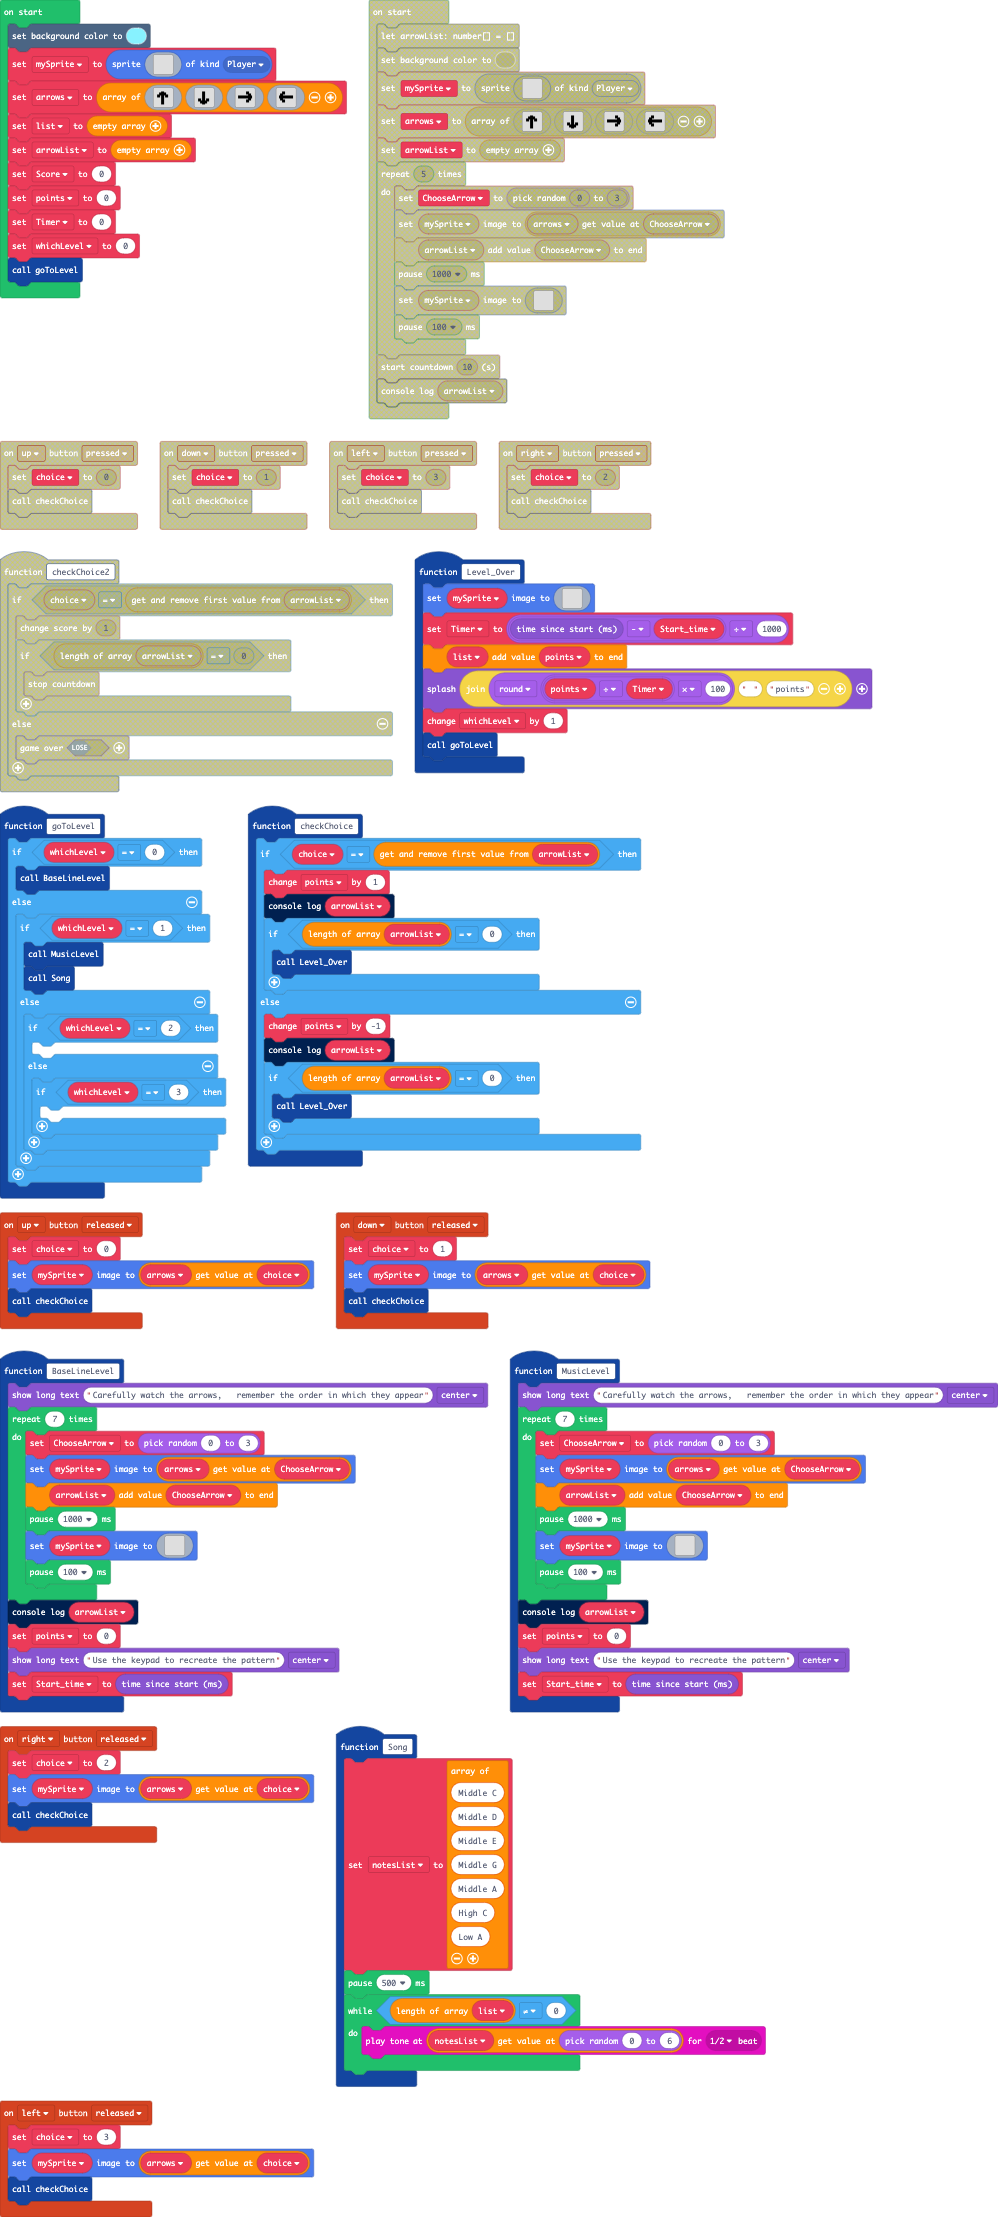
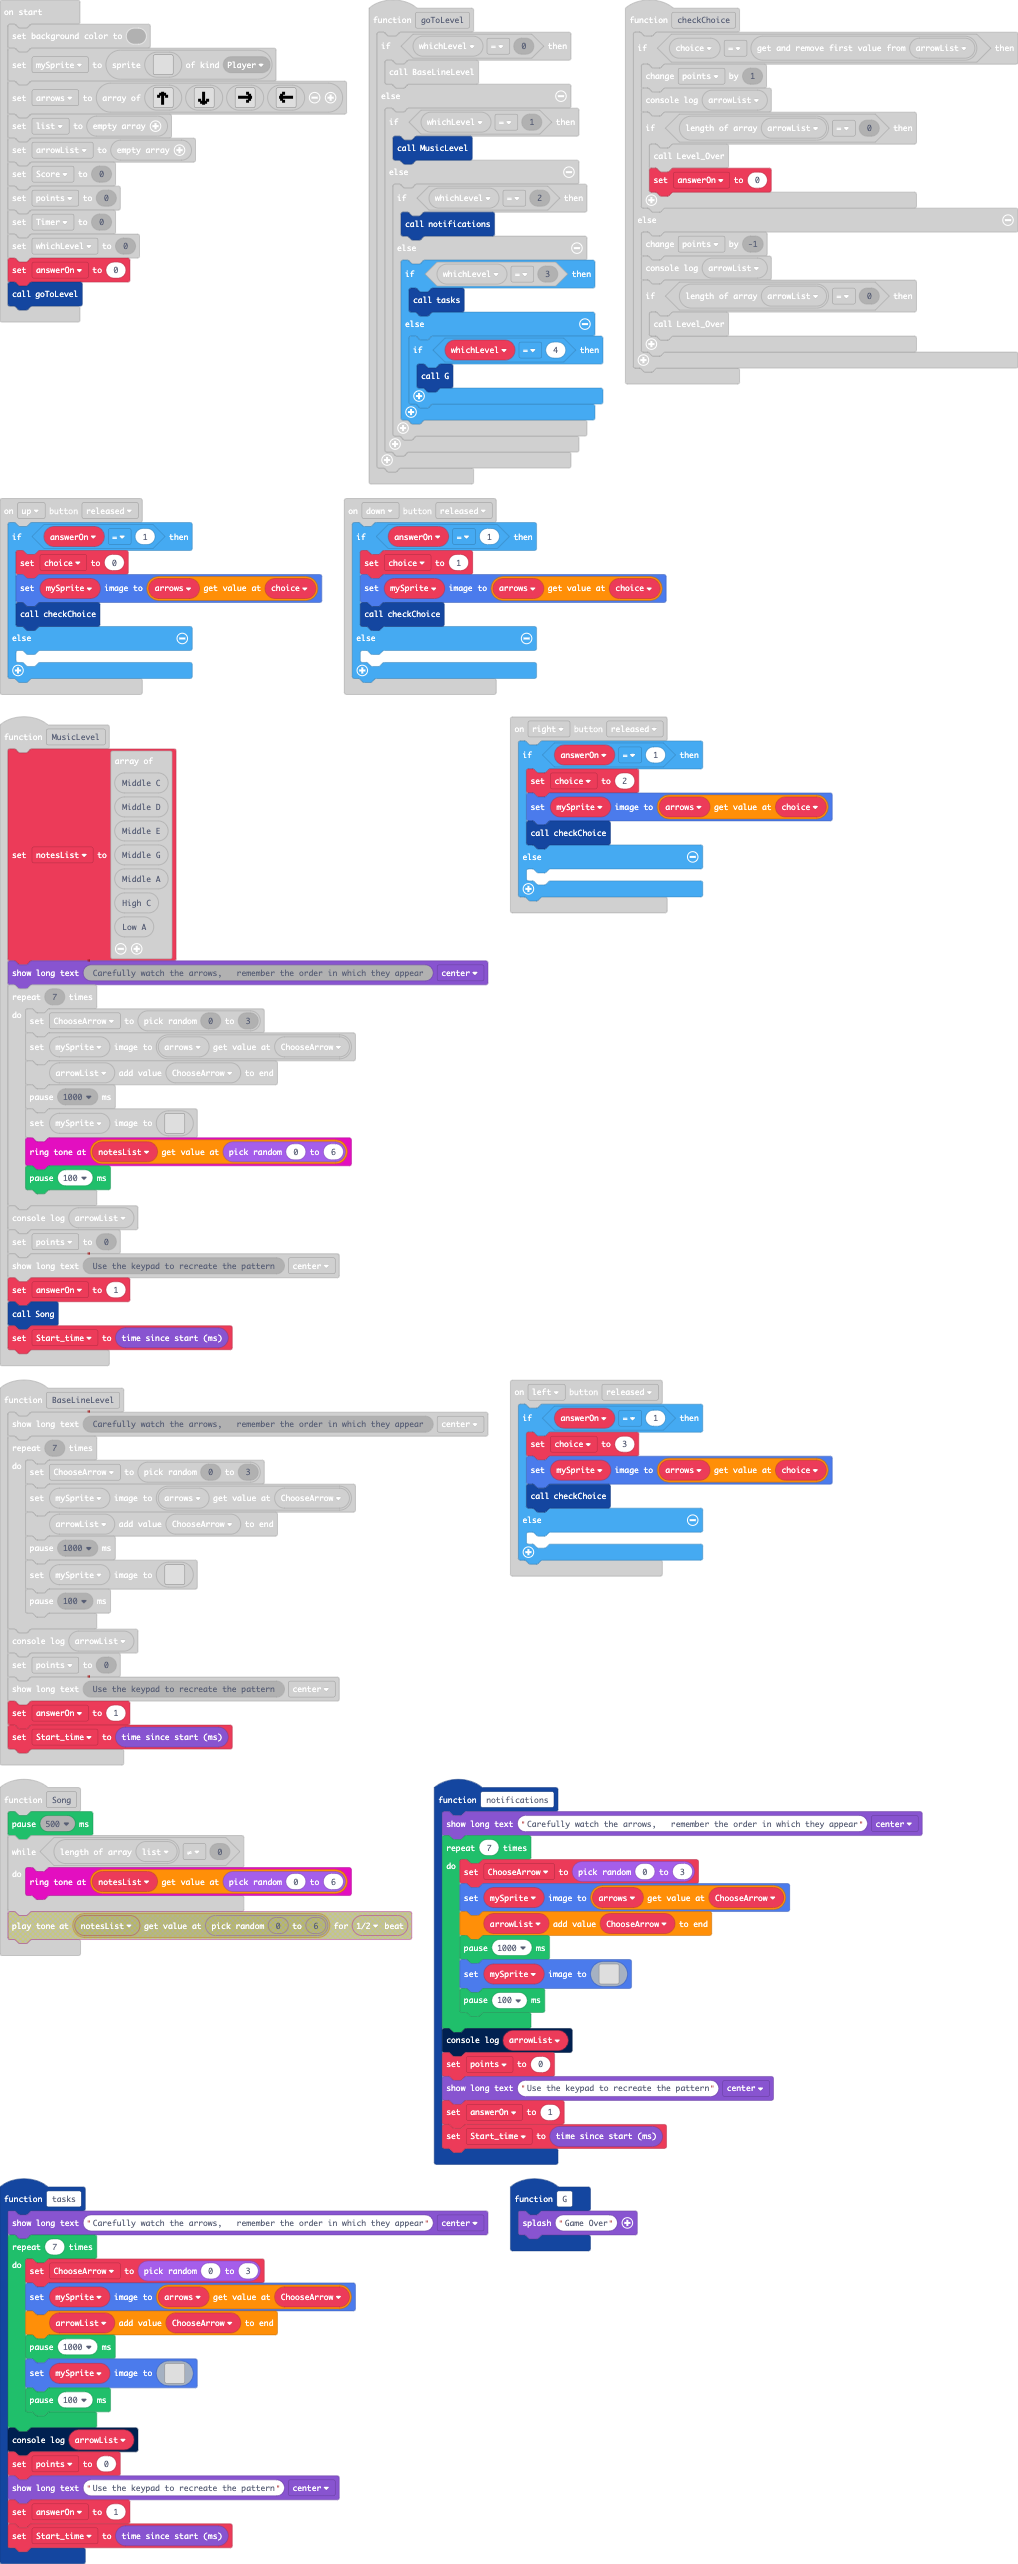
Update main.blocks, main.ts

diff --git a/main.ts b/main.ts
@@ -1,89 +1,13 @@
 controller.up.onEvent(ControllerButtonEvent.Released, function () {
-    choice = 0
-    mySprite.setImage(arrows[choice])
-    checkChoice()
-})
-function goToLevel () {
-    if (whichLevel == 0) {
-        BaseLineLevel()
+    if (answerOn == 1) {
+        choice = 0
+        mySprite.setImage(arrows[choice])
+        checkChoice()
     } else {
-        if (whichLevel == 1) {
-            MusicLevel()
-            Song()
-        } else {
-            if (whichLevel == 2) {
-            	
-            } else {
-                if (whichLevel == 3) {
-                	
-                }
-            }
-        }
+    	
     }
-}
-function checkChoice () {
-    if (choice == arrowList.shift()) {
-        points += 1
-        console.log(arrowList)
-        if (arrowList.length == 0) {
-            Level_Over()
-        }
-    } else {
-        points += -1
-        console.log(arrowList)
-        if (arrowList.length == 0) {
-            Level_Over()
-        }
-    }
-}
-function Song () {
-    notesList = [262, 294, 330, 392, 440, 523, 220]
-    pause(500)
-    while (list.length != 0) {
-        music.playTone(notesList[Math.randomRange(0, 6)], music.beat(BeatFraction.Half))
-    }
-}
-controller.left.onEvent(ControllerButtonEvent.Released, function () {
-    choice = 3
-    mySprite.setImage(arrows[choice])
-    checkChoice()
 })
-controller.down.onEvent(ControllerButtonEvent.Released, function () {
-    choice = 1
-    mySprite.setImage(arrows[choice])
-    checkChoice()
-})
-function Level_Over () {
-    mySprite.setImage(img`
-. . . . . . . . . . . . . . . . 
-. . . . . . . . . . . . . . . . 
-. . . . . . . . . . . . . . . . 
-. . . . . . . . . . . . . . . . 
-. . . . . . . . . . . . . . . . 
-. . . . . . . . . . . . . . . . 
-. . . . . . . . . . . . . . . . 
-. . . . . . . . . . . . . . . . 
-. . . . . . . . . . . . . . . . 
-. . . . . . . . . . . . . . . . 
-. . . . . . . . . . . . . . . . 
-. . . . . . . . . . . . . . . . 
-. . . . . . . . . . . . . . . . 
-. . . . . . . . . . . . . . . . 
-. . . . . . . . . . . . . . . . 
-. . . . . . . . . . . . . . . . 
-`)
-    Timer = (game.runtime() - Start_time) / 1000
-    list.push(points)
-    game.splash("" + Math.round(points / Timer * 100) + " " + "points")
-    whichLevel += 1
-    goToLevel()
-}
-controller.right.onEvent(ControllerButtonEvent.Released, function () {
-    choice = 2
-    mySprite.setImage(arrows[choice])
-    checkChoice()
-})
-function MusicLevel () {
+function notifications () {
     game.showLongText("Carefully watch the arrows,   remember the order in which they appear", DialogLayout.Center)
     for (let index = 0; index < 7; index++) {
         ChooseArrow = Math.randomRange(0, 3)
@@ -113,6 +37,174 @@ function MusicLevel () {
     console.log(arrowList)
     points = 0
     game.showLongText("Use the keypad to recreate the pattern", DialogLayout.Center)
+    answerOn = 1
+    Start_time = game.runtime()
+}
+function tasks () {
+    game.showLongText("Carefully watch the arrows,   remember the order in which they appear", DialogLayout.Center)
+    for (let index = 0; index < 7; index++) {
+        ChooseArrow = Math.randomRange(0, 3)
+        mySprite.setImage(arrows[ChooseArrow])
+        arrowList.push(ChooseArrow)
+        pause(1000)
+        mySprite.setImage(img`
+. . . . . . . . . . . . . . . . 
+. . . . . . . . . . . . . . . . 
+. . . . . . . . . . . . . . . . 
+. . . . . . . . . . . . . . . . 
+. . . . . . . . . . . . . . . . 
+. . . . . . . . . . . . . . . . 
+. . . . . . . . . . . . . . . . 
+. . . . . . . . . . . . . . . . 
+. . . . . . . . . . . . . . . . 
+. . . . . . . . . . . . . . . . 
+. . . . . . . . . . . . . . . . 
+. . . . . . . . . . . . . . . . 
+. . . . . . . . . . . . . . . . 
+. . . . . . . . . . . . . . . . 
+. . . . . . . . . . . . . . . . 
+. . . . . . . . . . . . . . . . 
+`)
+        pause(100)
+    }
+    console.log(arrowList)
+    points = 0
+    game.showLongText("Use the keypad to recreate the pattern", DialogLayout.Center)
+    answerOn = 1
+    Start_time = game.runtime()
+}
+function checkChoice () {
+    if (choice == arrowList.shift()) {
+        points += 1
+        console.log(arrowList)
+        if (arrowList.length == 0) {
+            Level_Over()
+            answerOn = 0
+        }
+    } else {
+        points += -1
+        console.log(arrowList)
+        if (arrowList.length == 0) {
+            Level_Over()
+        }
+    }
+}
+function Song () {
+    pause(500)
+    while (list.length != 0) {
+        music.ringTone(notesList[Math.randomRange(0, 6)])
+    }
+}
+function gameOver () {
+    game.splash("Game Over")
+}
+controller.left.onEvent(ControllerButtonEvent.Released, function () {
+    if (answerOn == 1) {
+        choice = 3
+        mySprite.setImage(arrows[choice])
+        checkChoice()
+    } else {
+    	
+    }
+})
+controller.down.onEvent(ControllerButtonEvent.Released, function () {
+    if (answerOn == 1) {
+        choice = 1
+        mySprite.setImage(arrows[choice])
+        checkChoice()
+    } else {
+    	
+    }
+})
+function Level_Over () {
+    mySprite.setImage(img`
+. . . . . . . . . . . . . . . . 
+. . . . . . . . . . . . . . . . 
+. . . . . . . . . . . . . . . . 
+. . . . . . . . . . . . . . . . 
+. . . . . . . . . . . . . . . . 
+. . . . . . . . . . . . . . . . 
+. . . . . . . . . . . . . . . . 
+. . . . . . . . . . . . . . . . 
+. . . . . . . . . . . . . . . . 
+. . . . . . . . . . . . . . . . 
+. . . . . . . . . . . . . . . . 
+. . . . . . . . . . . . . . . . 
+. . . . . . . . . . . . . . . . 
+. . . . . . . . . . . . . . . . 
+. . . . . . . . . . . . . . . . 
+. . . . . . . . . . . . . . . . 
+`)
+    Timer = (game.runtime() - Start_time) / 1000
+    list.push(points)
+    game.splash("" + Math.round(points / Timer * 100) + " " + "points")
+    whichLevel += 1
+    goToLevel()
+}
+controller.right.onEvent(ControllerButtonEvent.Released, function () {
+    if (answerOn == 1) {
+        choice = 2
+        mySprite.setImage(arrows[choice])
+        checkChoice()
+    } else {
+    	
+    }
+})
+function goToLevel () {
+    if (whichLevel == 0) {
+        BaseLineLevel()
+    } else {
+        if (whichLevel == 1) {
+            MusicLevel()
+        } else {
+            if (whichLevel == 2) {
+                notifications()
+            } else {
+                if (whichLevel == 3) {
+                    tasks()
+                } else {
+                    if (whichLevel == 4) {
+                        gameOver()
+                    }
+                }
+            }
+        }
+    }
+}
+function MusicLevel () {
+    notesList = [262, 294, 330, 392, 440, 523, 220]
+    game.showLongText("Carefully watch the arrows,   remember the order in which they appear", DialogLayout.Center)
+    for (let index = 0; index < 7; index++) {
+        ChooseArrow = Math.randomRange(0, 3)
+        mySprite.setImage(arrows[ChooseArrow])
+        arrowList.push(ChooseArrow)
+        pause(1000)
+        mySprite.setImage(img`
+. . . . . . . . . . . . . . . . 
+. . . . . . . . . . . . . . . . 
+. . . . . . . . . . . . . . . . 
+. . . . . . . . . . . . . . . . 
+. . . . . . . . . . . . . . . . 
+. . . . . . . . . . . . . . . . 
+. . . . . . . . . . . . . . . . 
+. . . . . . . . . . . . . . . . 
+. . . . . . . . . . . . . . . . 
+. . . . . . . . . . . . . . . . 
+. . . . . . . . . . . . . . . . 
+. . . . . . . . . . . . . . . . 
+. . . . . . . . . . . . . . . . 
+. . . . . . . . . . . . . . . . 
+. . . . . . . . . . . . . . . . 
+. . . . . . . . . . . . . . . . 
+`)
+        music.ringTone(notesList[Math.randomRange(0, 6)])
+        pause(100)
+    }
+    console.log(arrowList)
+    points = 0
+    game.showLongText("Use the keypad to recreate the pattern", DialogLayout.Center)
+    answerOn = 1
+    Song()
     Start_time = game.runtime()
 }
 function BaseLineLevel () {
@@ -145,12 +237,14 @@ function BaseLineLevel () {
     console.log(arrowList)
     points = 0
     game.showLongText("Use the keypad to recreate the pattern", DialogLayout.Center)
+    answerOn = 1
     Start_time = game.runtime()
 }
-let ChooseArrow = 0
-let Start_time = 0
 let notesList: number[] = []
+let Start_time = 0
+let ChooseArrow = 0
 let choice = 0
+let answerOn = 0
 let whichLevel = 0
 let Timer = 0
 let points = 0
@@ -252,4 +346,5 @@ let Score = 0
 points = 0
 Timer = 0
 whichLevel = 0
+answerOn = 0
 goToLevel()
